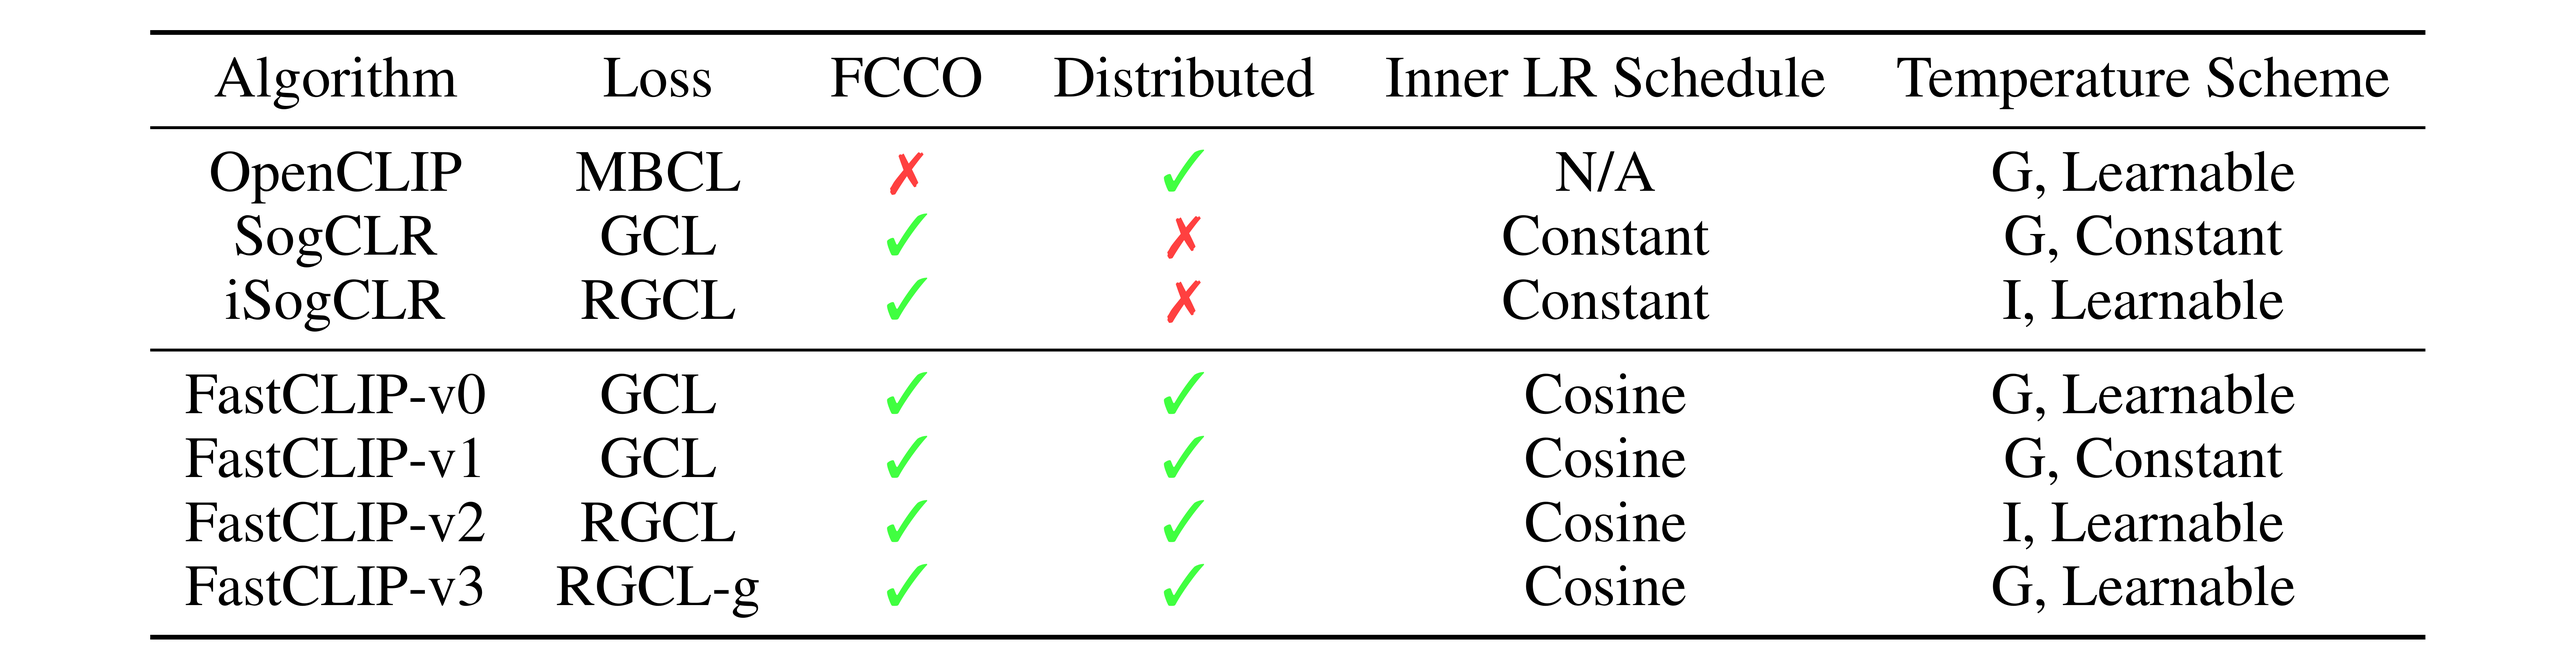
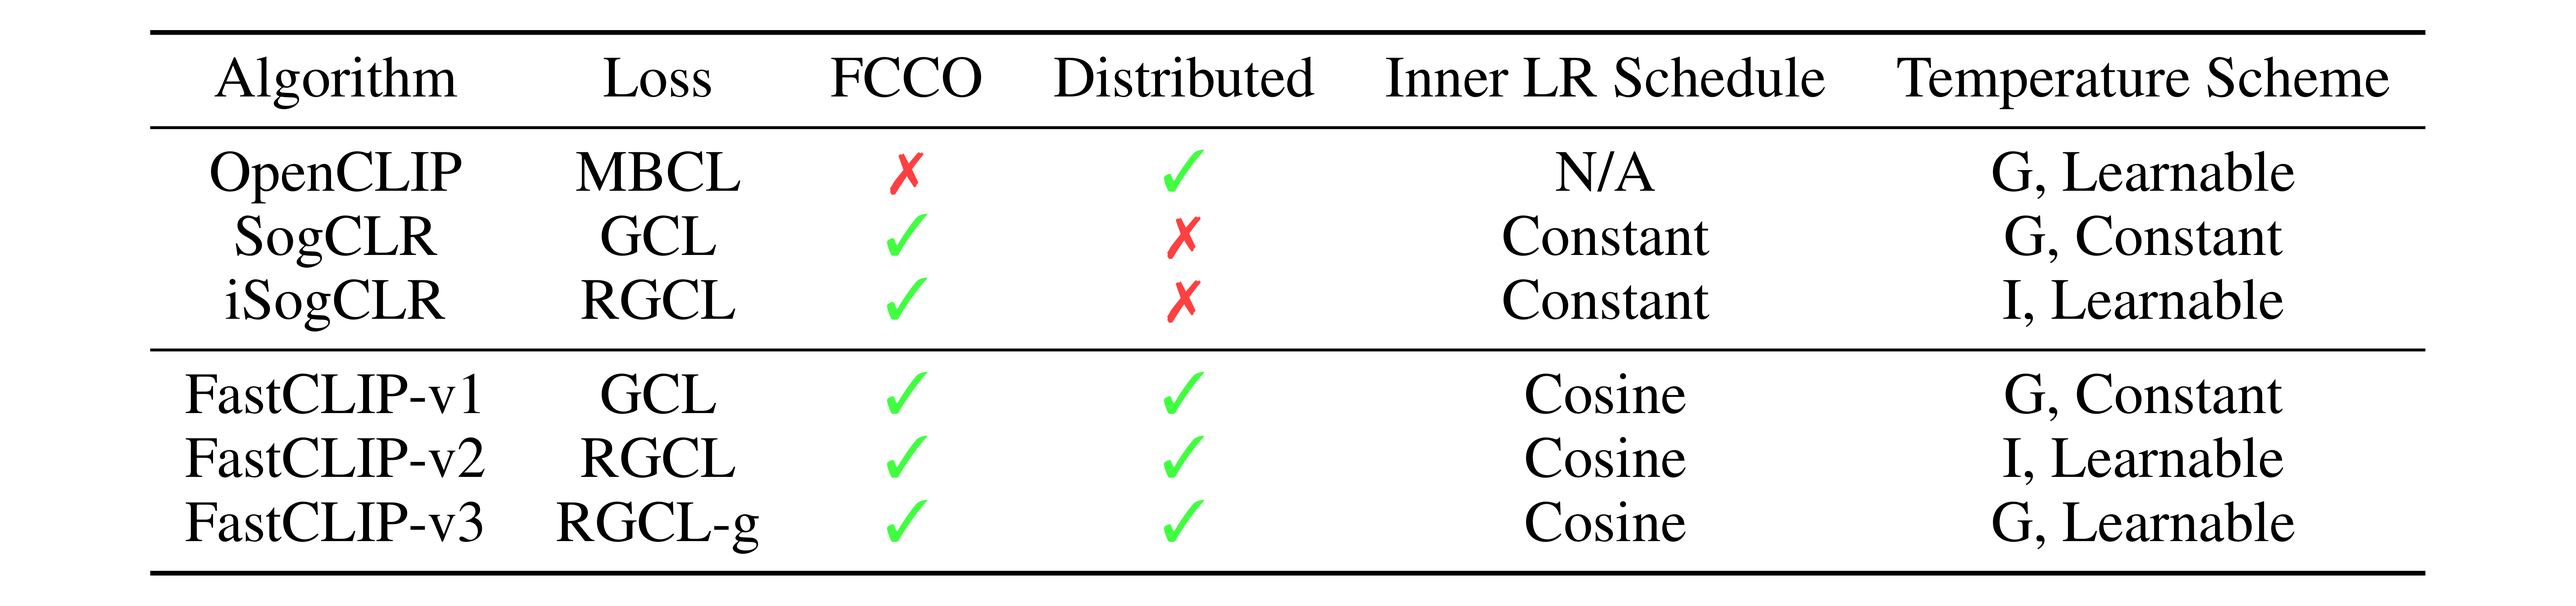
add results of FastCLIP-v1 (v2) vs. SogCLR (iSogCLR) remove FastCLIP-v0

diff --git a/README.md b/README.md
@@ -15,35 +15,39 @@
 
 ### The Proposed FastCLIP Framework
 
-The FastCLIP framework is a general CLIP training framework. It includes 4 algorithms which we name FastCLIP-v0 to FastCLIP-v3. The pseudo-code of FastCLIP is presented below.
+The FastCLIP framework is a general CLIP training framework, which includes a family of algorithms differing in loss computation and temperature parameter update. Here we introduce three of them that we name FastCLIP-v1 to v3. We first present the pseudo-code of FastCLIP:
 
 <p align="center"><img alt="Pseudo-code of FastCLIP" src="./assets/fastclip_algorithm.png" width="600"/></p>
 
-FastCLIP-v0 to FastCLIP-v3 mainly differ in loss computation and temperature update (Line 9 and Line 11). Specifically, FastCLIP-v0 and FastCLIP-v1 optimizes the Global Contrastive Loss (GCL), which is first used by SogCLR:
+The three algorithms have different ways of computing the loss and updating the temperature $\tau$ (Line 9 and Line 11 in Algorithm 1). Specifically, **FastCLIP-v1** optimizes the Global Contrastive Loss (GCL), which is first used by SogCLR:
 
 <p align="center"><img alt="GCL Loss" src="./assets/gcl.png" width="600"/></p>
 
-Even though optimizing the same loss, they differ from SogCLR in the schedule of the inner learning rate $\gamma$ in Eqn. (2): SogCLR sets $\gamma_t$ to a constant, while FastCLIP-v0 and v1 update it using a cosine decay schedule. Let $E_{\mathrm{cur}}$ denote the current epoch, and $E$ denote the number of decay epochs, then $\gamma_t$ is given by:
+For $\tau$ update, FastCLIP-v1 sets it to a constant, as in SogCLR. FastCLIP-v1 differs from SogCLR in the schedule of the inner learning rate $\gamma$ in Eqn. (2): SogCLR sets $\gamma_t$ to a constant, while FastCLIP-v1 updates it using a cosine decay schedule: Let $E_{\mathrm{cur}}$ denote the current epoch, and $E$ denote the number of decay epochs, then $\gamma_t$ is set to:
 
 <p align="center"><img alt="Cosine Inner LR Schedule" src="./assets/cosine_gamma.png" width="600"/></p>
 
-The difference between FastCLIP-v0 and v1 lies in the temperature parameter $\tau$. In v0 it is learnable and is updated using gradient method, while in v1 it is set to a constant, as in SogCLR. FastCLIP-v2 optimizes the Robust Global Contrastive Loss (RGCL), which is first used by iSogCLR:
+**FastCLIP-v2** optimizes the Robust Global Contrastive Loss (RGCL), which is first used by iSogCLR. In RGCL, the temperature parameter becomes a variable that needs to be optimized. Also, each data point now has its individual temperature parameter, as opposed to the global temperature in GCL. Let $\tau_1 =(\tau_{1,1}, \ldots, \tau_{1, n})$, $\tau_2 =(\tau_{2,1}, \ldots, \tau_{2, n})$, then RGCL is defined as:
 
 <p align="center"><img alt="RGCL Loss" src="./assets/rgcl.png" width="600"/></p>
 
-where $\tau_1 =(\tau_{1,1}, \ldots, \tau_{1, n})$, $\tau_2 =(\tau_{2,1}, \ldots, \tau_{2, n})$, $\tau_0$ is a small value,  $\rho\geq 0$ is a hyperparameter. Similarly, the difference between FastCLIP-v2 and iSogCLR lies in the inner learning rate schedule. FastCLIP-v3 optimizes a variant of RGCL which we name RGCL with global temperature (RGCL-g):
+where $\tau_0$ is a small value, $\rho\geq 0$ is a hyperparameter. Similarly, the difference between FastCLIP-v2 and iSogCLR lies in the schedule of the inner learning rate $\gamma$, where the former leverages the cosine schedule and the latter uses the constant schedule. **FastCLIP-v3** optimizes a variant of RGCL which we name RGCL with global temperature (RGCL-g):
 
 <p align="center"><img alt="RGCL-g Loss" src="./assets/rgclg.png" width="600"/></p>
 
-The main difference between RGCL and RGCL-g is that RGCL-g unifies the individual temperature parameter in RGCL into a single global temperature. In FastCLIP-v3, the temperature parameter is also learnable. In the following table we provide comparison between different algorithms.
+The main difference between RGCL and RGCL-g is that RGCL-g unifies the individual temperature parameter into a single global temperature. In FastCLIP-v3, the temperature parameter is also learnable. In the following table we provide comparison between different algorithms.
 
 <p align="center"><img alt="Comparison of different algorithms" src="./assets/comparison.png" width="600"/></p>
 
-Note that OpenCLIP uses the Mini-Batch Contrastive Loss which we omit here for brevity. FCCO denotes finite-sum coupled compositional optimization. In Temperature Scheme, "G" means global temperature while "I" means individual temperature, and "Learnable" means the temperature is updated using gradient computed from their respective loss.
+Note that OpenCLIP uses the Mini-Batch Contrastive Loss (MBCL), which requires a large batch size for good performance. "FCCO" means the algorithm leverages finite-sum coupled compositional optimization techniques. "Distributed" means the algorithm is designed for distributed training. In "Temperature Scheme", "G" means global temperature while "I" means individual temperature.
 
 ### Experiment Results
 
-Here we only present part of the results of OpenCLIP vs. FastCLIP-v3. For more results please refer to our paper. The following figure is the average of ImageNet and its variants curves in the medium-scale (CC3M, batch size 1024) and large-scale (CC12M, batch size 2048) settings.
+Next we present the results of FastCLIP vs. OpenCLIP, SogCLR and iSogCLR. For more results please refer to our paper. The following table shows the results of FastCLIP-v1 (FastCLIP-v2, resp.) vs. SogCLR (iSogCLR, resp.) in the medium-scale (CC3M, batch size 1024) and large-scale (CC12M, batch size 2048) settings.
+
+<p align="center"><img alt="FastCLIP v1 (FastCLIP-v2, resp.) vs. SogCLR (iSogCLR, resp.)" src="./assets/gamma_datacomp.png" width="600"/></p>
+
+In the table, "Datacomp" denotes the average performance on the Datacomp benchmark, "IN & Variants" denote the average performance on ImageNet and its variants. The following figure is the average of ImageNet and its variants curves in the medium-scale and large-scale settings.
 
 <p align="center"><img alt="OpenCLIP vs. FastCLIP-v3" src="./assets/openclip_fastclipv3_in_variants_curve.png" width="600"/></p>
 
